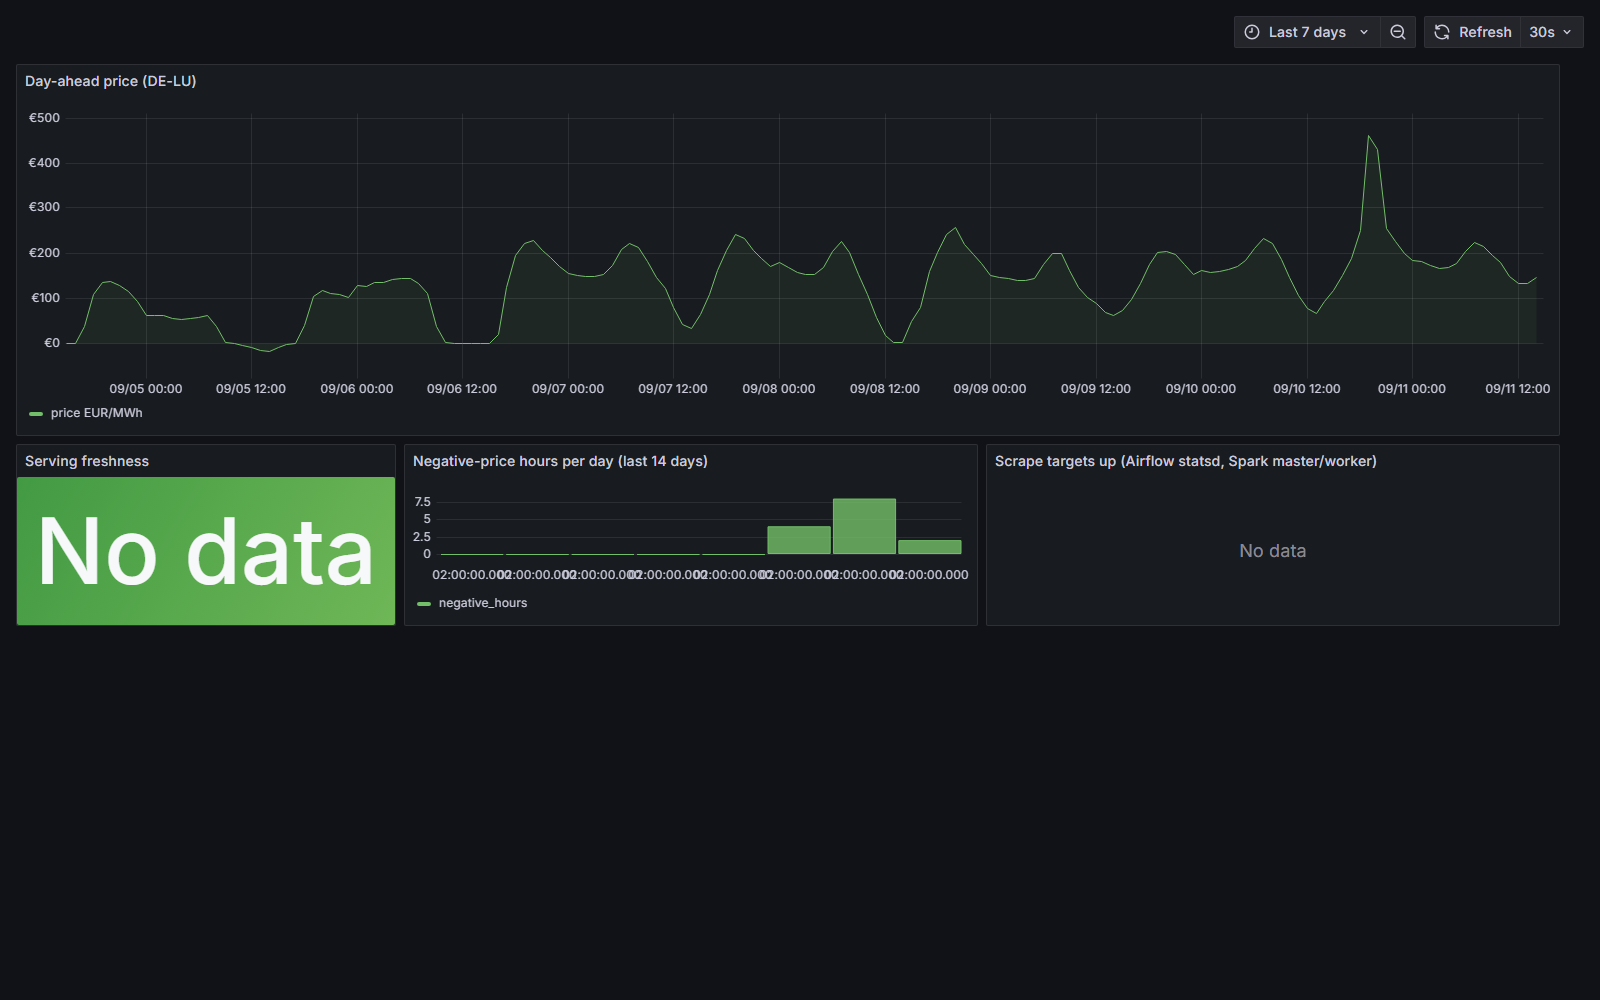
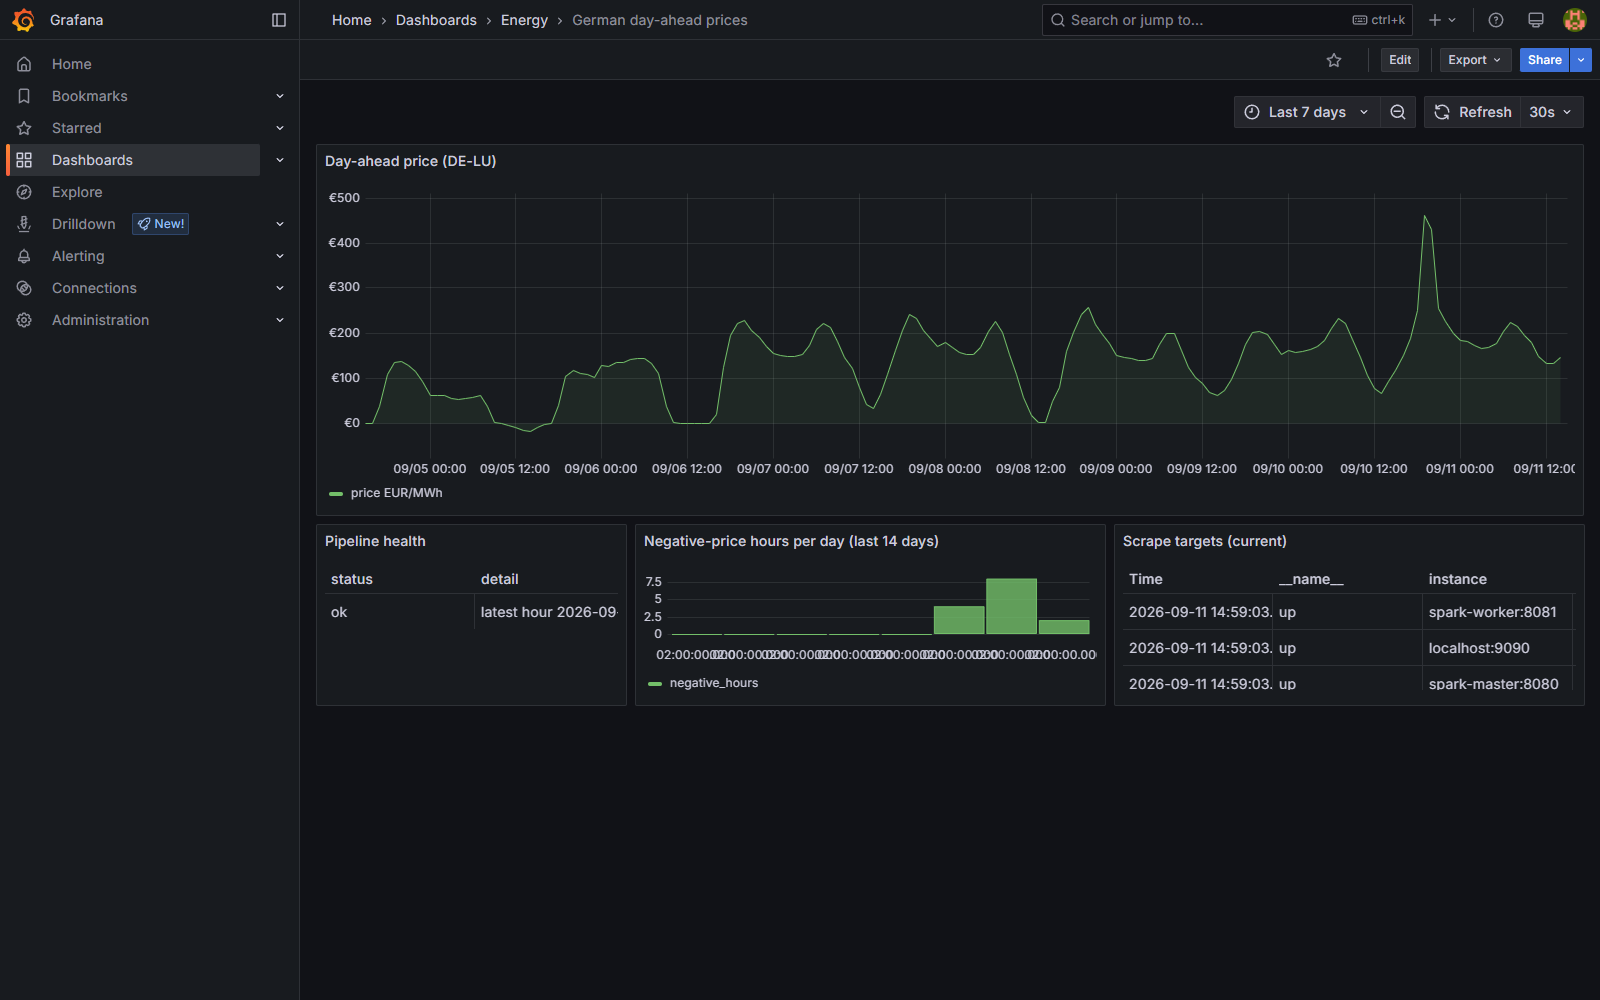
Add real screenshots (Grafana dashboard, Airflow DAG, Spark master) to README; dashboard panels as tables for reliable rendering

diff --git a/README.md b/README.md
@@ -59,6 +59,22 @@ One namespace, three layers:
 - **gold** — daily aggregates (`avg`/`min`/`max`, negative-price hours), written
   to both Iceberg and the Postgres serving schema
 
+## What it looks like
+
+Real screenshots from this repository's own local stack:
+
+| Grafana — serving layer | Airflow — hourly Spark orchestration |
+| --- | --- |
+| ![Grafana dashboard](docs/images/grafana-dashboard.png) | ![Airflow DAG grid](docs/images/airflow-dag-grid.png) |
+
+![Spark master](docs/images/spark-master.png)
+
+The Grafana dashboard reads the warehouse's own marts (day-ahead prices,
+pipeline health, negative-price hours) plus Prometheus scrape targets. The
+Airflow grid shows the hourly `transform_silver_gold` task succeeding. The
+Spark master UI shows the long-running streaming application alongside the
+batch jobs submitted by Airflow.
+
 ## Quickstart
 
 Prerequisites: **Docker Desktop** (free; no account or payment required) with
